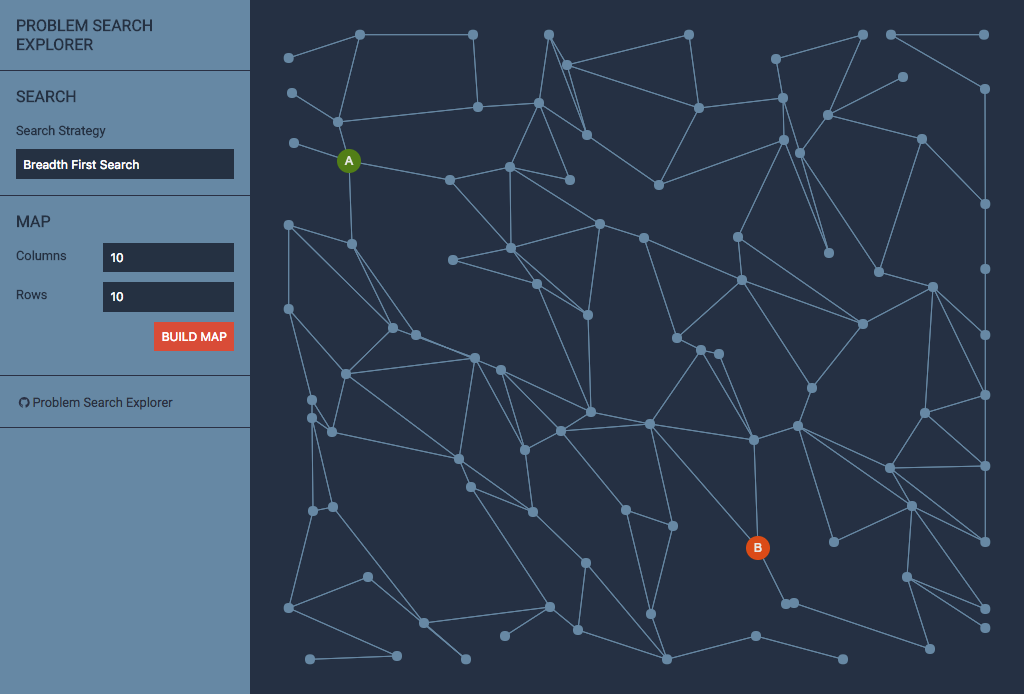
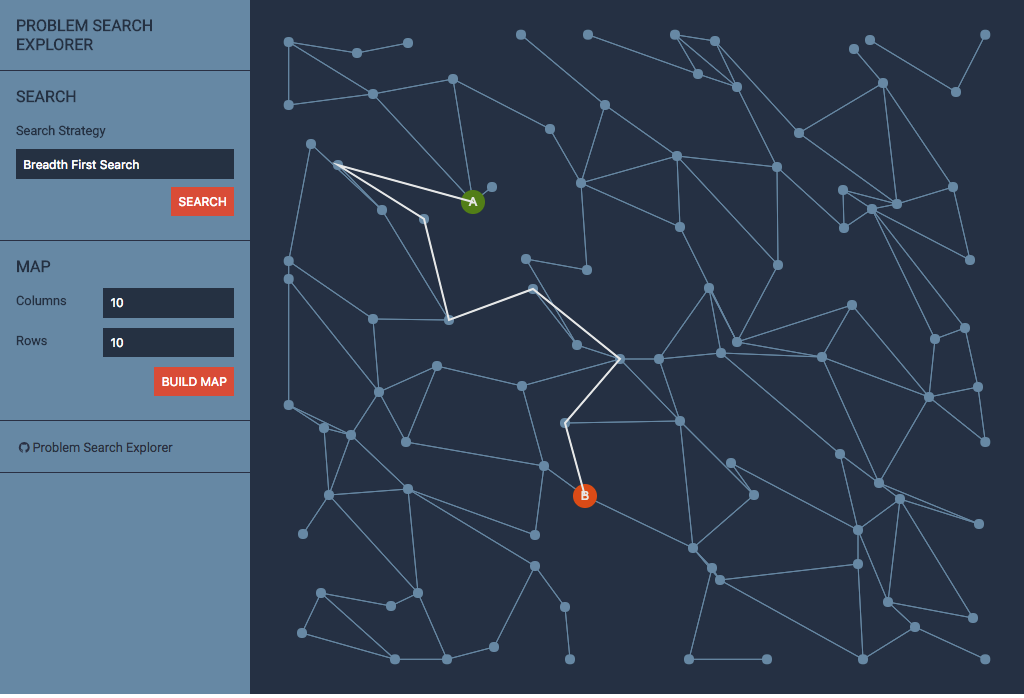
update preview

diff --git a/src/components/SearchMap.vue b/src/components/SearchMap.vue
@@ -35,16 +35,19 @@
                 })
                 this.visualisation.rendererFabric.registerRenderer('node', ProblemGraphVisualisation.NodesRenderer)
                 this.visualisation.rendererFabric.registerRenderer('text', ProblemGraphVisualisation.TextRenderer)
+                this.visualisation.rendererFabric.registerRenderer('solution', ProblemGraphVisualisation.SolutionRenderer)
             },
             initEvents: function () {
-                this.$eventHub.$on('nodes', this.addBaseLevel)
+                this.$eventHub.$on('nodes', this.addNodes)
                 this.$eventHub.$on('start', this.addStart)
                 this.$eventHub.$on('goal', this.addGoal)
+                this.$eventHub.$on('solution', this.addSolution)
             },
-            addBaseLevel: function (nodes) {
+            addNodes: function (nodes) {
                 this.visualisation.removeLevelByName('startLevel')
                 this.visualisation.removeLevelByName('goalLevel')
                 this.visualisation.removeLevelByName('baseLevel')
+                this.visualisation.removeLevelByName('solutionLevel')
                 let baseLevel = new ProblemGraphVisualisation.Level('baseLevel', {
                     'type': 'node',
                     'nodes': nodes,
@@ -82,6 +85,18 @@
                     'textSize': 12
                 })
                 this.visualisation.addLevel(goalLevel)
+                this.visualisation.update()
+            },
+            addSolution: function (nodes) {
+                let solutionLevel = new ProblemGraphVisualisation.Level('solutionLevel', {
+                    'type': 'solution',
+                    'nodes': nodes,
+                    'nodeColor': '#e7e7e7',
+                    'lineColor': '#e7e7e7',
+                    'textColor': '#e7e7e7',
+                    'lineSize': 2
+                })
+                this.visualisation.addLevel(solutionLevel)
                 this.visualisation.update()
             }
         }

diff --git a/src/components/Explorer.vue b/src/components/Explorer.vue
@@ -42,7 +42,7 @@
                 this.$eventHub.$on('click-canvas', this.findNode)
             },
             updateSearch: function (value) {
-                let graph, problem, result
+                let graph, problem, result, solution
                 if (this.start === null || this.goal === null) {
                     this.$modal.show('select')
                     return false
@@ -52,7 +52,8 @@
                 graph.addNodes(this.map.getNodes())
                 problem = new ProblemSearch.Problem(graph, this.start, this.goal)
                 result = this.searchStrategy.search(problem)
-                console.log(result.solution())
+                solution = result.solution().map((node) => problem.findGraphNodeByState(node.state))
+                this.$eventHub.$emit('solution', solution)
             },
             updateMap: function (value) {
                 let mapElement = document.getElementById('map')
